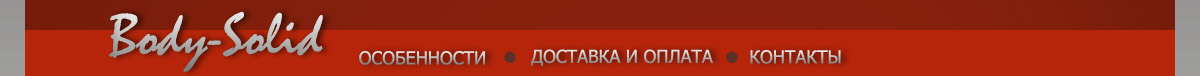
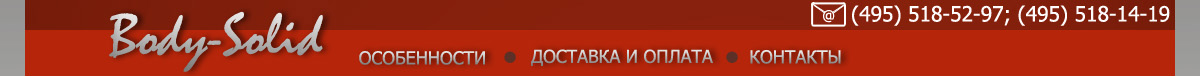
Телефоны картинкой

Changed region(s): [[0.6783, 0.0263, 0.9867, 0.3421], [0.6783, 0.3158, 0.7708, 0.3684]]

diff --git a/www/styles/index.css b/www/styles/index.css
@@ -86,16 +86,13 @@ div.top {
 	background-repeat: no-repeat;
 }
 
-	div.top div.phone {
-		position: absolute;
-		width: 310px;
-		height: 30px;
+	div.top a.email {
 		margin-top: 2px;
-		margin-left: 860px;
-		
-		color: #ffffff;
-		font-size: 20px;
-		text-align: right;
+		margin-left: 810px;
+		width: 35px;
+		height: 25px;
+		display: block;
+		position: absolute;
 	}
 	
 	div.top a.index {
